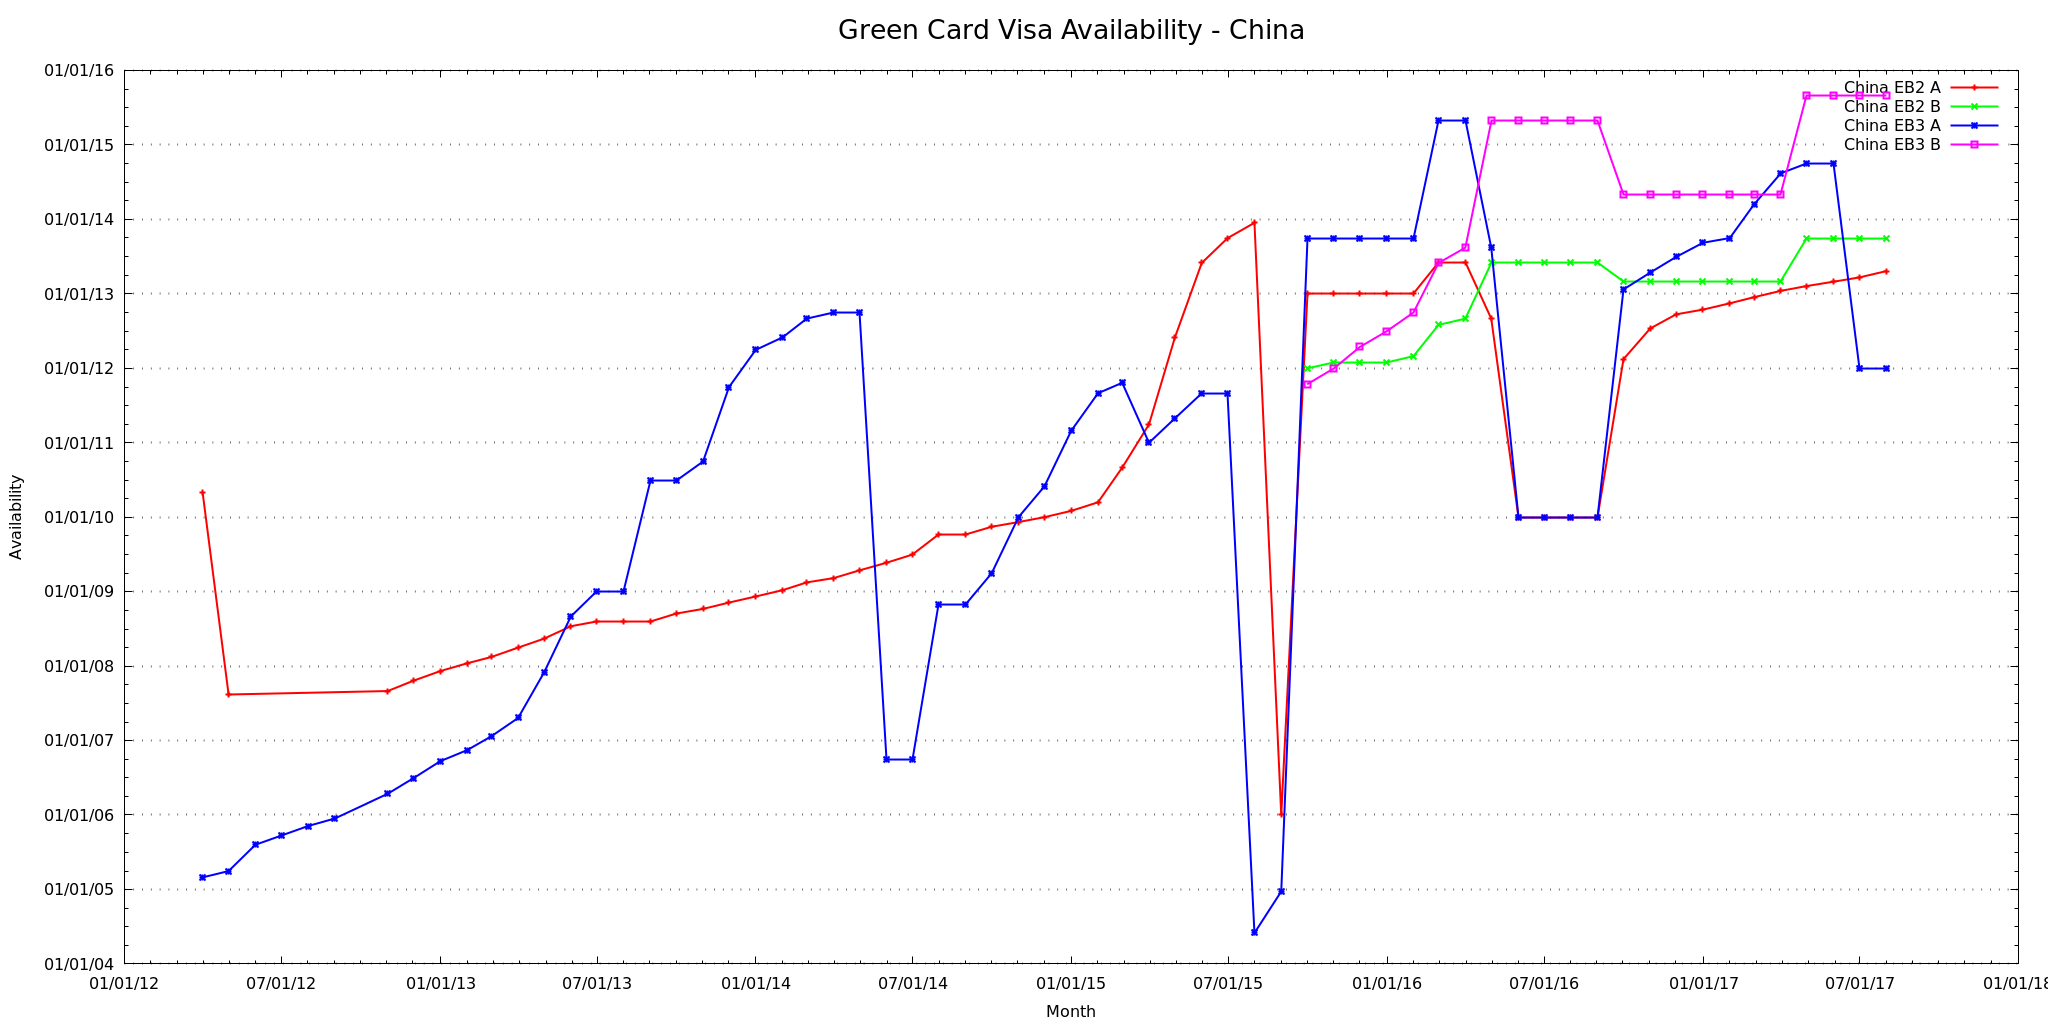
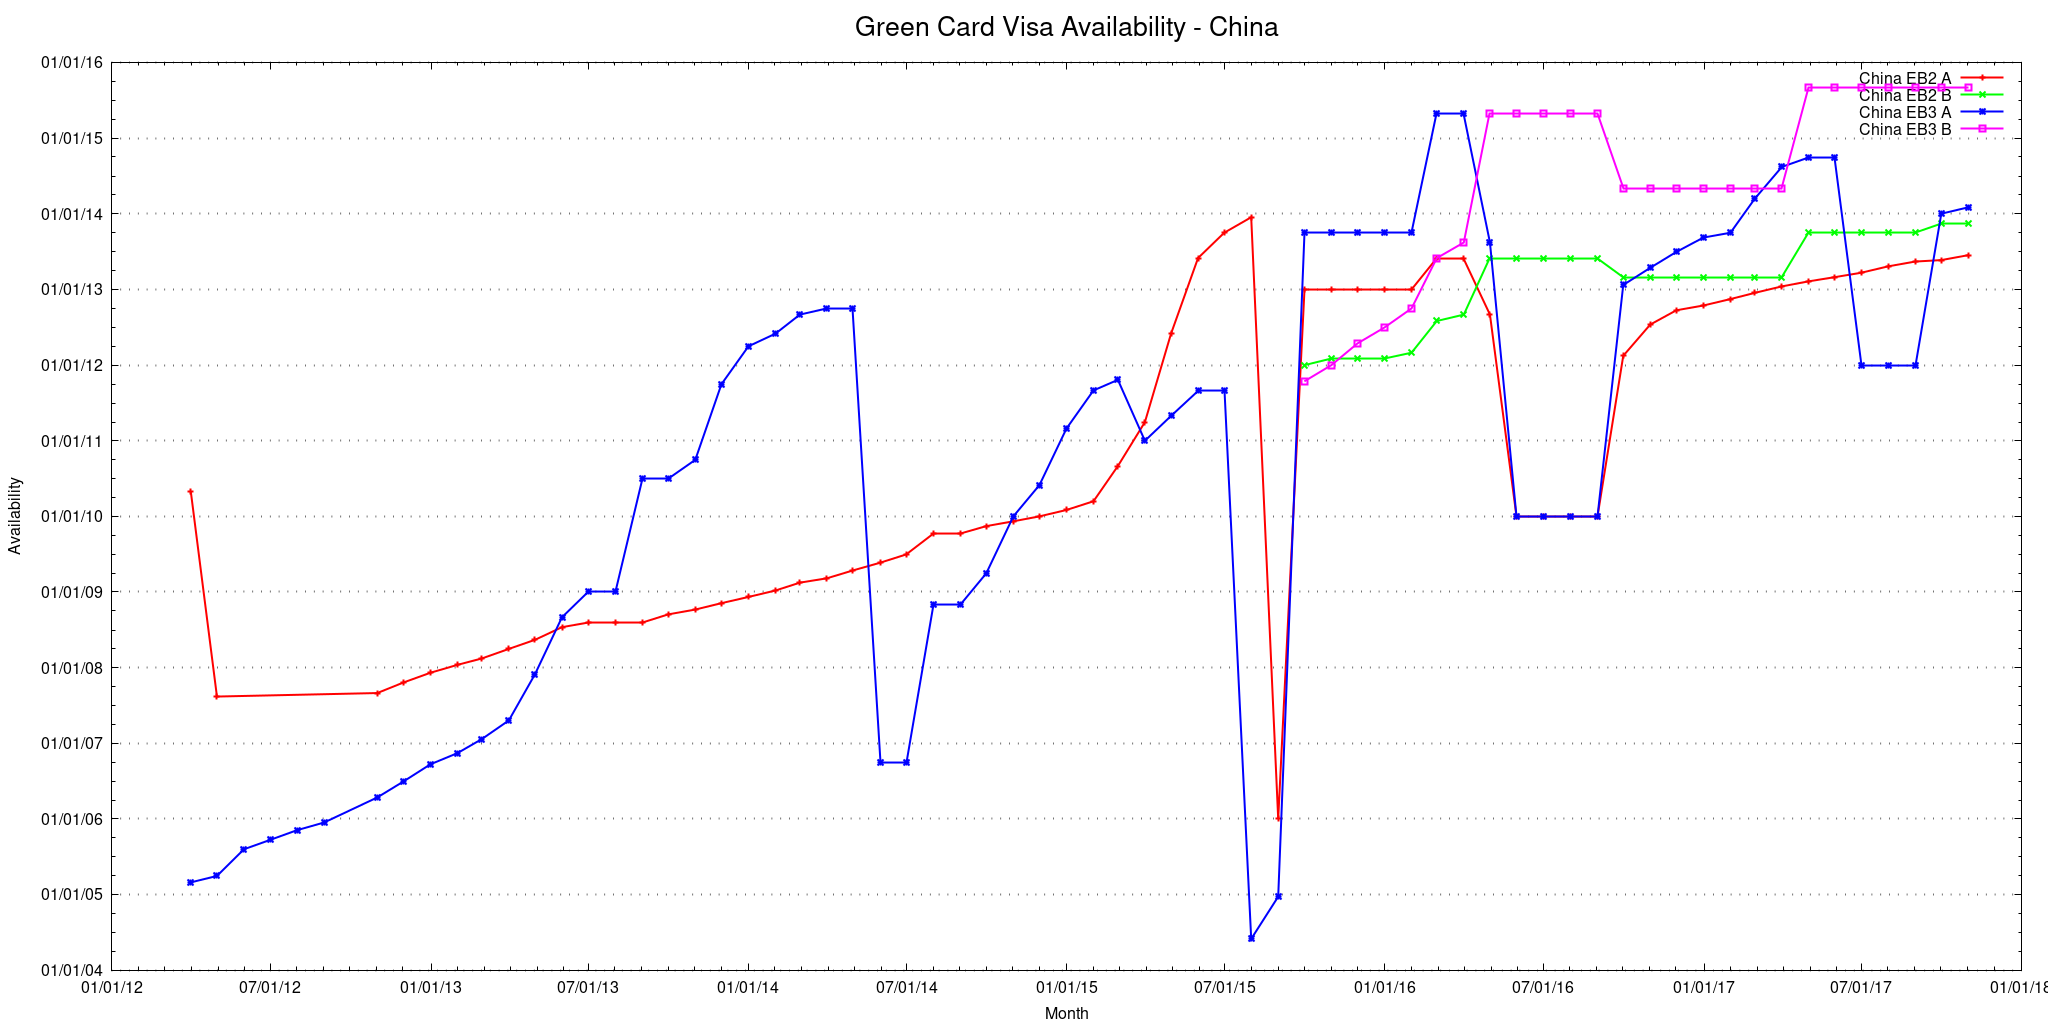
2017 November

diff --git a/plotting/google-charts/charts.html b/plotting/google-charts/charts.html
@@ -84,6 +84,7 @@ data.addColumn('date', 'EB3 B');
 [new Date(2017, 07, 01), new Date(2013, 03, 22), new Date(2013, 09, 01), new Date(2012, 00, 01), new Date(2015, 08, 01), ],
 [new Date(2017, 08, 01), new Date(2013, 04, 15), new Date(2013, 09, 01), new Date(2012, 00, 01), new Date(2015, 08, 01), ],
 [new Date(2017, 09, 01), new Date(2013, 04, 22), new Date(2013, 10, 15), new Date(2014, 00, 01), new Date(2015, 08, 01), ],
+[new Date(2017, 10, 01), new Date(2013, 05, 15), new Date(2013, 10, 15), new Date(2014, 01, 01), new Date(2015, 08, 01), ],
 
   ]);
 
@@ -175,6 +176,7 @@ data.addColumn('date', 'EB3 B');
 [new Date(2017, 07, 01), new Date(2008, 06, 22), new Date(2009, 01, 01), new Date(2006, 06, 15), new Date(2007, 00, 01), ],
 [new Date(2017, 08, 01), new Date(2008, 07, 22), new Date(2009, 01, 01), new Date(2006, 09, 15), new Date(2007, 00, 01), ],
 [new Date(2017, 09, 01), new Date(2008, 08, 15), new Date(2009, 01, 08), new Date(2006, 09, 15), new Date(2008, 00, 01), ],
+[new Date(2017, 10, 01), new Date(2008, 09, 08), new Date(2009, 01, 08), new Date(2006, 09, 15), new Date(2008, 00, 01), ],
 
   ]);
 
@@ -266,6 +268,7 @@ data.addColumn('date', 'EB3 B');
 [new Date(2017, 07, 01), new Date(2015, 03, 01), undefined, undefined, undefined, ],
 [new Date(2017, 08, 01), new Date(2016, 00, 01), undefined, undefined, undefined, ],
 [new Date(2017, 09, 01), undefined, undefined, undefined, undefined, ],
+[new Date(2017, 10, 01), undefined, undefined, undefined, undefined, ],
 
   ]);
 
@@ -357,6 +360,7 @@ data.addColumn('date', 'EB3 B');
 [new Date(2017, 07, 01), new Date(2015, 03, 01), undefined, new Date(2015, 05, 01), new Date(2016, 00, 01), ],
 [new Date(2017, 08, 01), new Date(2016, 00, 01), undefined, new Date(2015, 10, 01), new Date(2016, 00, 01), ],
 [new Date(2017, 09, 01), undefined, undefined, new Date(2015, 11, 01), new Date(2016, 07, 01), ],
+[new Date(2017, 10, 01), undefined, undefined, new Date(2016, 00, 15), new Date(2016, 07, 01), ],
 
   ]);
 

diff --git a/README.md b/README.md
@@ -6,8 +6,8 @@ you make sound decisions.
 
     stack setup
     stack build
-    stack exec VisaBulletinScraper-exe                      # retrieve all data (will overwrite data files)
-    stack exec VisaBulletinScraper-exe -y 2017 -m october   # retrieve data for a specific year/month and append it to the end of data files
+    stack exec VisaBulletinScraper-exe                          # retrieve all data (will overwrite data files)
+    stack exec VisaBulletinScraper-exe -- -y 2017 -m october    # retrieve data for a specific year/month and append it to the end of data files
 
 `app/Main.hs` contains a few options to tweak at the top.  Currently this
 program only extracts employment-based visa information but can be easily
